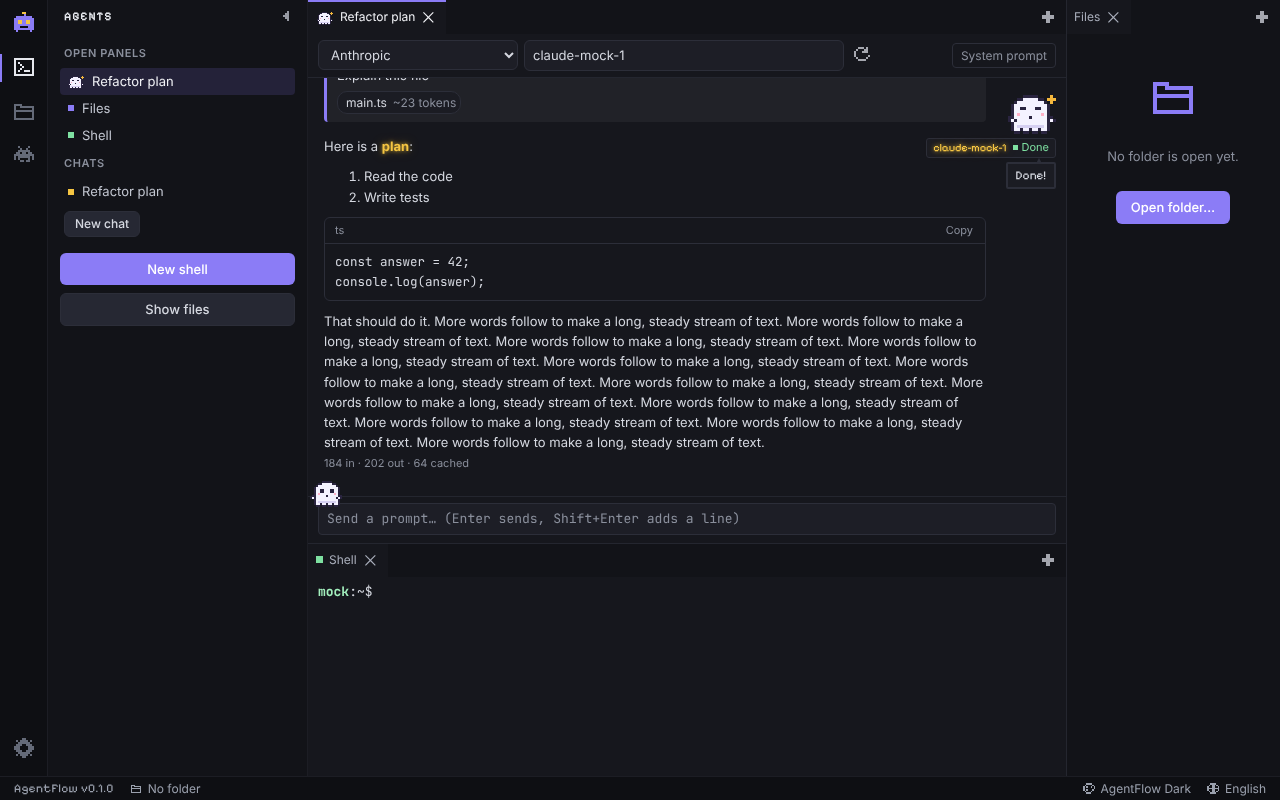
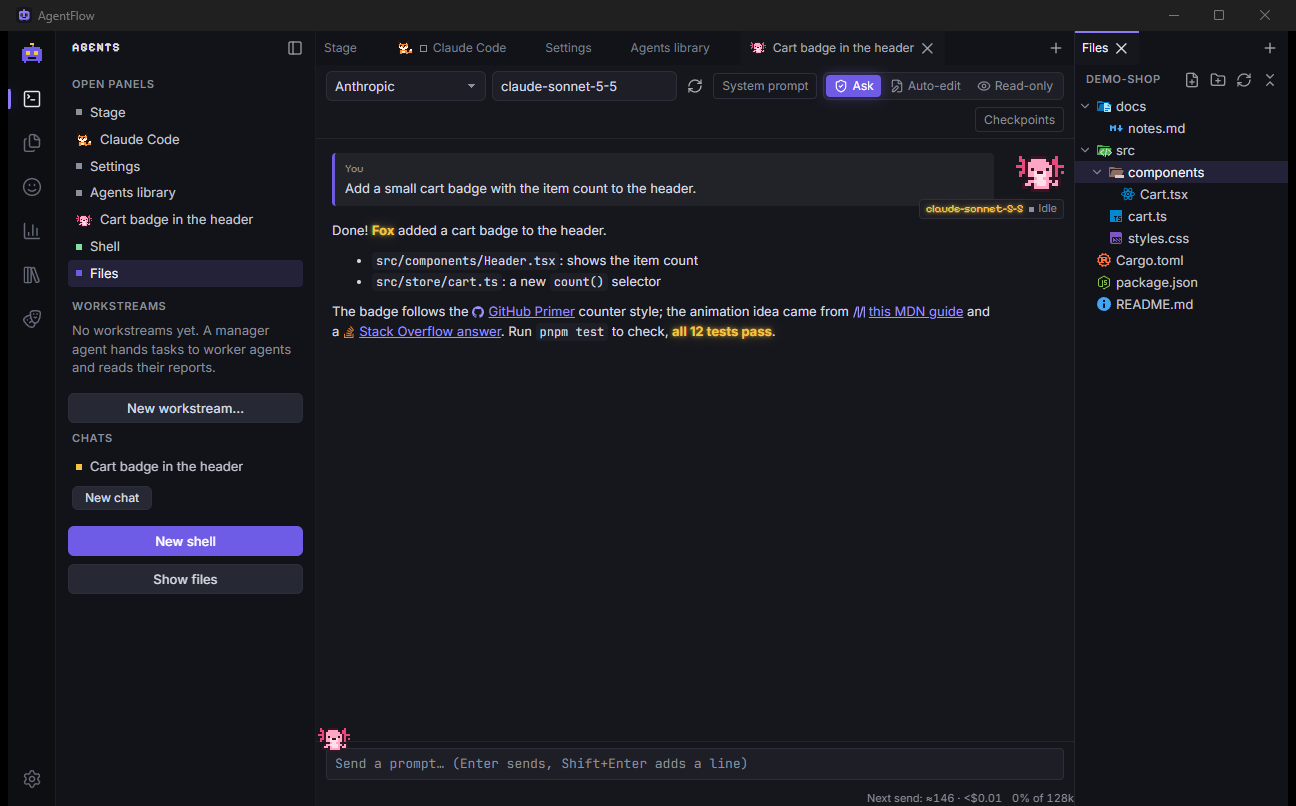
docs: phase 11 done, design system notes, new screenshots
CLAUDE.md gets a Design system section (tokens, shared components, icon sets
and licenses, no one-off styles), settings v10 and the character motion;
README a refreshed main screenshot (demo content), a settings shot, the panel
shortcuts and the icon licenses.

diff --git a/CLAUDE.md b/CLAUDE.md
@@ -13,22 +13,21 @@ Linux. Priorities: **low RAM, fast, clean code organization, fun look.**
   CodeMirror 6 (languages per file type), marked + DOMPurify (`shared/markdown`, chat + library); all lazy
 - **Layout/styling:** `dockview-core` behind a thin Solid wrapper (stylesheet from `dockview`,
   both pinned to the same version); plain CSS with `--af-*` variables, no React, Electron,
-  Tailwind or UI kits; bundled fonts JetBrains Mono (code), Pixelify Sans (small accents only).
+  Tailwind or UI kits; bundled fonts Inter (UI), JetBrains Mono (code/terminal only), Pixelify
+  Sans (small accents only).
 
 ## Folder map
 
 ```
 src-tauri/src/
   main.rs, lib.rs     app setup, managed state, command registration; error.rs: AppError
-  settings/           versioned settings JSON in the OS app config dir (atomic write, migrations)
-  themes/             built-in + imported VS Code themes: JSONC, validation, syntax colors, storage
+  settings/, themes/  versioned settings JSON (atomic, migrations); built-in + VS Code themes
   commands/           thin #[tauri::command] fns that delegate to modules
   pty/                PtyManager, sessions (reader/waiter/pump threads), shells, CLI detection
   fs/                 workspace: path checks, list/read/write/trash, quick open index, watcher
   providers/          Provider trait, Anthropic + OpenAI-compatible adapters, SSE, keys, errors
   prompts/, conversations/  prompt history; API chats (app data dir, one JSON per conversation)
-  chat/               ChatManager (one stream per chat), request building, Compact, estimate
-  agent/              API agent loop, tools/, permissions, dangerous commands, checkpoints, prompt
+  chat/, agent/       ChatManager, requests, Compact; agent loop, tools/, permissions, undo
   agents/             installer: templates, per-tool renderers, skills, sections, plan/apply, registry
   library/            community library: registry, GitHub client, cache, importers, safety scan
   tokens/             UsageTracker: JSONL ledger, buckets, prices, budgets, CLI log readers
@@ -36,24 +35,21 @@ src-tauri/src/
   util/               atomic_write, run_blocking, lock/Signal, workspace_key, hex color, test_dir
 src/
   main.tsx, App.tsx   entry: bootstrap (settings -> locale -> theme -> workspace fs), then render
-  app/                shell: ActivityBar, Sidebar (+ views), StatusBar, Toasts, Dialogs, styles/
+  app/                shell: ActivityBar, Sidebar (+ views), StatusBar, Toasts, Dialogs, styles/,
+                      panelToggles (Ctrl/Cmd+B/J/Shift+E), onboarding/ (first-run), TipsCard
   features/layout/    dockview host, panels, roles, placement, saved layout, tabs, characters
-  features/terminal/  TerminalController, lazy TerminalPanel, agent activity
-  features/chat/      lazy ChatPanel: session, agent/ (timeline, cards, undo), reveal, markdown
+  features/terminal/  TerminalController, lazy TerminalPanel; chat/: lazy ChatPanel, agent/ cards
   features/agentui/   corner overlay + prompt bar; activity, turn ends, attention, ports, input
-  features/providers/ presets (base URLs), model list and key status stores
-  features/characters/  sprites/*.json, renderer, shared rAF animator, Avatar, state heuristic
+  features/providers/ presets, models, key status; characters/: sprites, animator, Avatar
   features/workspace/ workspace folder, fs session (backend open + watcher events), path helpers
-  features/files/     Files panel: tree model/store, virtual TreeView, icons, quick open
-  features/editor/    lazy EditorPanel + EditorController (CodeMirror), languages, dirty store
-  features/theme/     VS Code -> --af-* mapping (+ syntax vars), user overrides, engine, store
-  features/i18n/      typed t(), lazy locale loading, reportError()
+  features/files/     tree store, virtual TreeView, quick open; editor/: lazy CodeMirror
+  features/theme/     VS Code -> --af-* mapping, overrides, engine; i18n/: typed t(), reportError()
   features/settings/  settings store (debounced save) + lazy SettingsPanel and sections
   features/tokens/    usage store (one Channel), formats, badge, chart, Usage view + lazy panel
   features/agents/    lazy Agents library panel (wizard/, library/ Browse tab, installed), profiles
   features/workstreams/ protocol, engine, store, runtime, cards, sidebar section, lazy Timeline
   features/stage/     lazy Agent Stage: layout, positions, scene, motion, canvas renderer
-  shared/             ipc (+ ipcCommands), types (+ chat/usage/agentTypes), errors, toast, dialog, ui/
+  shared/             ipc (+ ipcCommands), types, errors, toast, dialog, markdown, linkSites, ui/
   locales/            en.json (source of truth), tr, de, zh, ru
 themes/               built-in theme JSON (embedded into the Rust binary via include_str!)
 ```
@@ -159,7 +155,7 @@ other. `workstreams` and `stage` import core features only (the Stage gets `Stag
   (never stored); CLI managers a setup message per CLI session.
 - **Engine** (`engine.ts`, pure): manual / semi-auto / auto; auto stops on ask/done, any
   permission (never answered), errors, bad replies, max rounds, budgets, user typing, Stop.
-  Deliveries only to members (`canRoute`) via `agentui` ports. Persisted in layout v3.
+  One format reminder before a bad-reply pause (`autoRemind`). Only to members (`canRoute`).
 - **Glow** (`agentui/attention.ts`) clears on focus + interaction. **Stage**: one canvas on the
   shared animator, idle = no frames, paused hidden/unfocused; reduced motion = no travel.
 
@@ -177,8 +173,9 @@ other. `workstreams` and `stage` import core features only (the Stage gets `Stag
   (`placement.ts`); a Stage moved left gets a `stage` group. Saved layout v3 (`dock`, `roles`,
   `workstreams`, `stage`; v2 upgrades as is); bump `LAYOUT_VERSION` on changes.
 - Sprites: `characters/sprites/*.json`, 8 states (idle walk think work receive done error sleep)
-  of 2-4 frames, `.` = transparent, else a base-36 palette index (`validate.ts`); names are
+  of 2-6 frames, `.` = transparent, else a base-36 palette index (`validate.ts`); names are
   never translated. ONE animation loop (`animator.ts`), only while visible; `reducedMotion()`.
+  Eased movement snapped to sprite pixels (`motion.ts`); CSS breathing (scale >= 2) and hops.
 - Terminal (`stateMachine.ts`): prompt -> think, output -> work, 2 s quiet -> done, 5 s -> idle,
   exit 0 -> sleep else error. Chat: send -> think, delta/tool -> work (bubble = tool status).
 
@@ -188,8 +185,24 @@ other. `workstreams` and `stage` import core features only (the Stage gets `Stag
   hard-code colors. Overrides (text, accent, agent bold `#F5C542`, `--af-glow`): `overrides.ts`.
 - Flat dotted keys in `src/locales/en.json`; `I18nKey = keyof typeof en`; every visible string
   uses `t('key', { param })`. New keys go into **all five** locales (typecheck + tests check).
-- Rust owns `settings.json` (v9): bump `CURRENT_VERSION` + a `migrate.rs` step on shape changes;
-  `normalized()` repairs values; `defaults.test.ts` checks TS defaults against Rust.
+- Rust owns `settings.json` (v10; `onboarding { done, tipsDismissed }`): bump `CURRENT_VERSION`
+  and add a `migrate.rs` step on shape changes; `normalized()` repairs values; `defaults.test.ts`
+  checks TS defaults against Rust.
+
+## Design system (phase 11)
+
+- Tokens (`shared/ui/tokens.css`): `--af-space-*` (4-based), `--af-text-*`, radii, control
+  heights, elevation 1-3, `--af-ease` + 120/160/220 ms (0 with reduced motion), focus ring,
+  accent glow. Colors only from theme tokens; gold (`--af-glow`) = highlights and "needs you".
+- Shared components (`shared/ui/`): Button/IconButton, Input, Textarea, Select, Checkbox,
+  Toggle, SegmentedControl, Tabs, Badge, Tooltip, Menu, Dialog (focus trap + restore), Toast,
+  Card, EmptyState, Skeleton. **No one-off control styles**: new UI uses these (row-like list
+  buttons share one rule in `controls.css`); icon-only buttons need a label.
+- Icons, bundled, no network: Lucide (ISC, `shared/ui/lucide.ts` subset + `Icon`), Material
+  Icon Theme file icons (MIT, `shared/ui/file-icons/`, `fileIconName()`), Simple Icons brands
+  for links (CC0, `shared/linkSiteData.ts`, `siteForUrl()`; unknown = generic link). Licenses in
+  `src/assets/icons/` and `file-icons/`. Never name a component like a Solid built-in
+  (`Switch`, `Show`, `For`...): the JSX compiler resolves those to solid-js.
 
 ## Commands
 
@@ -202,9 +215,6 @@ cargo build    # in src-tauri: compile check, no bundling
 
 ## Roadmap (12 phases)
 
-Done: 1 skeleton, themes, i18n, layout · 2 PTY terminals · 3 file tree + editor · 4 pixel
-characters · 5 provider APIs + chat · 6 usage tracking · 7 API agent tools · 8 agent installer ·
-9 workstreams + Agent Stage · 10 community agent library. Next: 11 UI polish · 12
-cross-platform builds + CI.
-
-Only build what the current phase lists; leave future modules as empty stubs.
+Done: phases 1-11 (shell, terminals, files + editor, characters, provider chat, usage, API
+agents, installer, workstreams + Stage, community library, UI polish + first-run). Next: 12
+cross-platform builds + CI. Only build what the current phase lists; future modules = stubs.

diff --git a/README.md b/README.md
@@ -6,13 +6,14 @@ side in a VS Code-style dockable layout, watched over by cute pixel-art agent ch
 AgentFlow is a lightweight desktop app (Tauri 2 + Rust + SolidJS) for Windows, macOS and Linux.
 The goals are low RAM, a fast UI, a clean codebase, and a fun look.
 
-> **Status:** early development. Phases 1–9 of 12 are done: app shell, themes, languages,
+> **Status:** early development. Phases 1–11 of 12 are done: app shell, themes, languages,
 > dockable layout, real terminal panels, the workspace file tree, a code editor, pixel
 > characters with a prompt bar, API agents with tools, token and cost tracking, an agent
-> installer, and manager–worker workstreams with the Agent Stage. See the [roadmap](#roadmap).
+> installer, manager–worker workstreams with the Agent Stage, the community agent library,
+> and a polished UI with a first-run guide. See the [roadmap](#roadmap).
 
 ![AgentFlow screenshot](docs/screenshot.png)
-<!-- Phase 5: an API chat panel with its character and prompt bar; open panels and saved chats in the Agents view. -->
+<!-- Phase 11: an API chat with link icons and gold agent bold; Material file icons in the Files panel. -->
 
 ## Features
 
@@ -24,7 +25,11 @@ Available now (phases 1–6):
 - Built-in themes: **AgentFlow Dark** (default), **AgentFlow Light**, **Retro CRT** (amber)
 - User overrides on top of any theme: text color, accent color, and the glowing "agent bold" style
 - Five languages, switchable live: English, Türkçe, Deutsch, 中文, Русский
-- Offline-first: fonts are bundled (JetBrains Mono, Pixelify Sans), no network needed
+- Offline-first: fonts (Inter, JetBrains Mono, Pixelify Sans) and icons are bundled, no network needed
+- A first-run guide (language, theme with live preview, character, AI tools or an API
+  provider, workspace) that can be re-opened from Settings
+- One design system: shared buttons, fields, toggles, tabs, menus and dialogs with smooth,
+  reduced-motion-aware animations; Lucide UI icons, Material file icons and brand icons for links
 - Terminal panels (xterm.js, WebGL when visible): your shell, Claude Code, Codex, Gemini CLI
   or any custom command, each in its own dockable panel; agent CLIs missing from PATH are
   shown as unavailable
@@ -146,6 +151,14 @@ collections, Gemini CLI) in the **Browse** tab of the Agents library:
 
 ![The Browse tab of the Agents library](docs/library.png)
 
+### Settings
+
+Every setting applies live and is saved automatically: themes and colors, terminal, characters,
+AI providers, agents, workstreams (for example the one-time format reminder for managers),
+usage and budgets, files, language and layout.
+
+![Settings with toggles, selects and the workstream options](docs/settings.png)
+
 ## Roadmap
 
 | Phase | Scope                                                                  | Status |
@@ -160,7 +173,7 @@ collections, Gemini CLI) in the **Browse** tab of the Agents library:
 | 8     | Agent installer wizard (per-AI formats and paths)                      | Done   |
 | 9     | Manager–worker workstreams + the Agent Stage                           | Done   |
 | 10    | Community agent library from GitHub                                    | Done   |
-| 11    | UI polish                                                              |        |
+| 11    | UI polish + first-run guide                                            | Done   |
 | 12    | Cross-platform builds + CI                                             |        |
 
 ## Keyboard shortcuts
@@ -170,6 +183,9 @@ collections, Gemini CLI) in the **Browse** tab of the Agents library:
 | Ctrl+P                      | Quick open a workspace file  |
 | Ctrl+P, then `>`            | Commands (Agents library...) |
 | Ctrl+S                      | Save the current editor      |
+| Ctrl+B                      | Show / hide the sidebar      |
+| Ctrl+J                      | Show / hide the terminals    |
+| Ctrl+Shift+E                | Show / hide the Files panel  |
 | Ctrl+Shift+`                | New shell                    |
 | Ctrl+Shift+C / Ctrl+Shift+V | Copy / paste in a terminal   |
 | Enter / Shift+Enter         | Send / new line (prompt bar) |
@@ -254,4 +270,7 @@ See [CLAUDE.md](CLAUDE.md) for the folder map, code rules and conventions.
 ## License
 
 [MIT](LICENSE) © AgentFlow contributors. Bundled fonts are under the SIL Open Font License 1.1
-(see `src/assets/fonts/*-OFL.txt`).
+(see `src/assets/fonts/*-OFL.txt`). Icons: [Lucide](https://lucide.dev) (ISC),
+[Material Icon Theme](https://github.com/material-extensions/vscode-material-icon-theme) (MIT) and
+[Simple Icons](https://simpleicons.org) (CC0); licenses in `src/assets/icons/` and
+`src/shared/ui/file-icons/`.

diff --git a/docs/performance.md b/docs/performance.md
@@ -21,14 +21,14 @@ A light check for phase 11 (UI polish), before and after, on the same Windows 11
 
 ## Results
 
-| Metric                         | Before (phase 10)  | After (phase 11)   |
-| ------------------------------ | ------------------ | ------------------ |
-| Cold start to interactive      | 1249–1392 ms       | 1215–1514 ms       |
-| Idle RAM, working set (tree)   | 493–511 MB         | 515–535 MB         |
-| Idle RAM, private bytes (tree) | 262–281 MB         | 300–304 MB         |
-| Idle CPU (10 s)                | 0.01–0.07 %        | 0.03–0.17 %        |
-| Total JS (raw / gzip)          | 2429 KB / 708 KB   | 2561 KB / 747 KB   |
-| Initial JS (raw / gzip)        | 570 KB / 155 KB    | 651 KB / 179 KB    |
+| Metric                         | Before (phase 10) | After (phase 11) |
+| ------------------------------ | ----------------- | ---------------- |
+| Cold start to interactive      | 1249–1392 ms      | 1215–1514 ms     |
+| Idle RAM, working set (tree)   | 493–511 MB        | 515–535 MB       |
+| Idle RAM, private bytes (tree) | 262–281 MB        | 300–304 MB       |
+| Idle CPU (10 s)                | 0.01–0.07 %       | 0.03–0.17 %      |
+| Total JS (raw / gzip)          | 2429 KB / 708 KB  | 2561 KB / 747 KB |
+| Initial JS (raw / gzip)        | 570 KB / 155 KB   | 651 KB / 179 KB  |
 
 Three to five runs each. The start time and idle CPU stay within run-to-run noise. The idle
 CPU readings are a few tens of milliseconds over 10 s (the shell's PowerShell included), so
